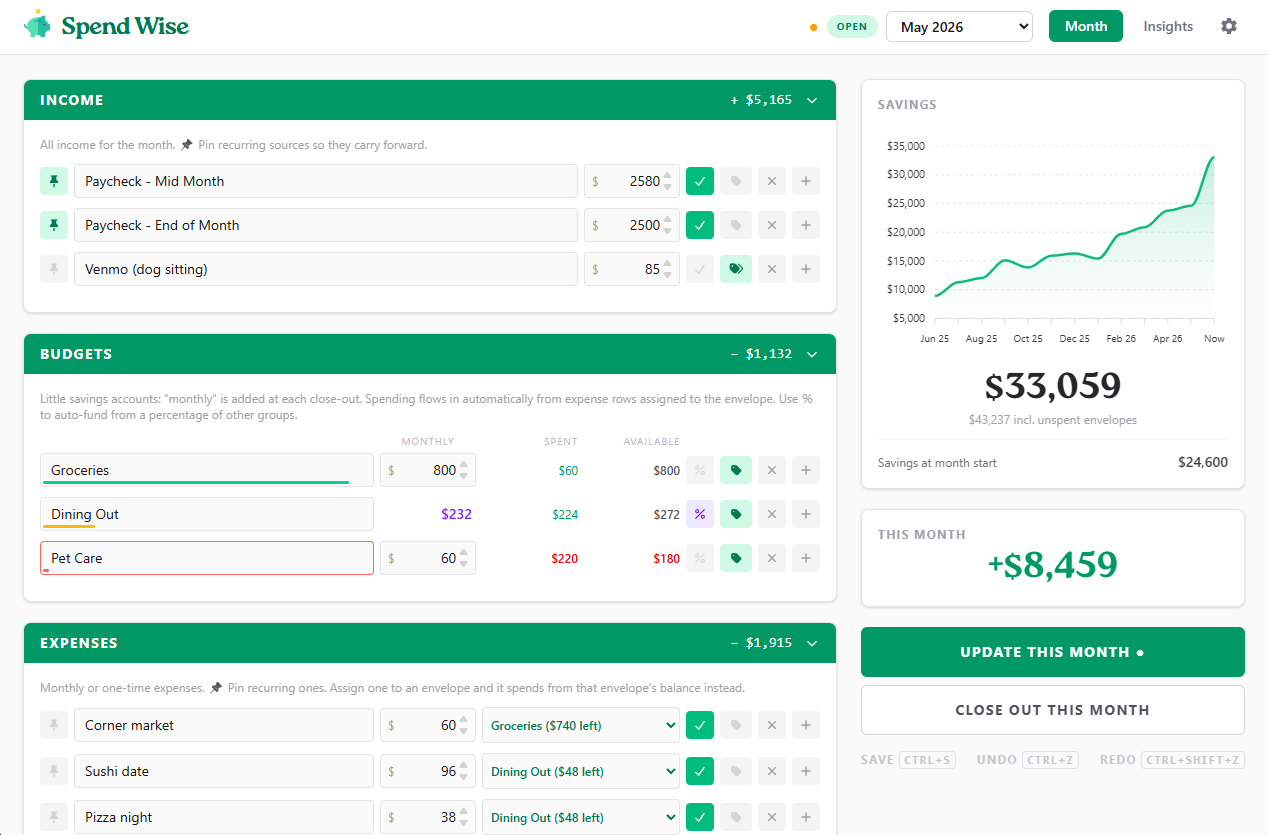
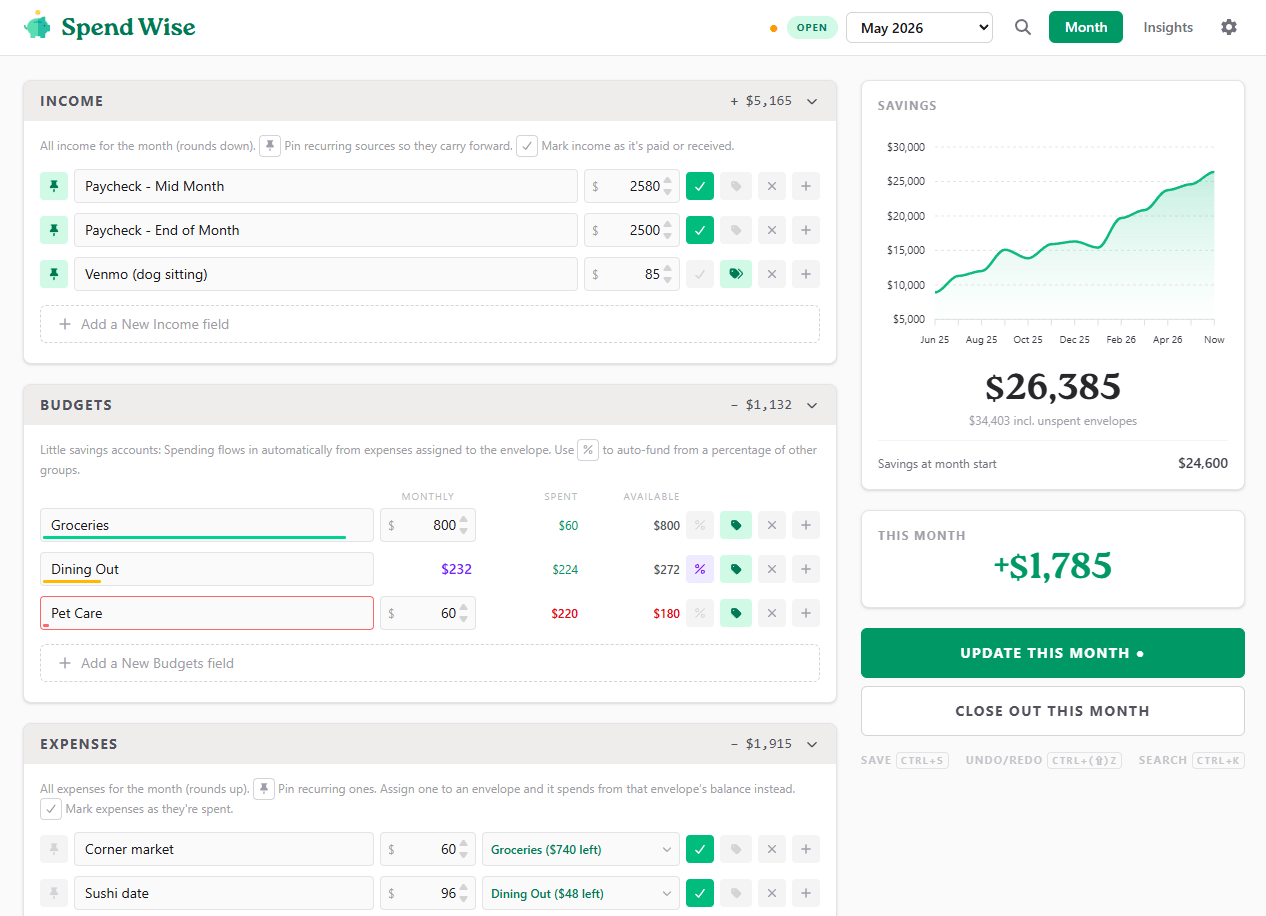
readme updates

diff --git a/README.md b/README.md
@@ -12,6 +12,7 @@
 
 <div align="center">
     <picture>
+        <source media="(prefers-color-scheme: dark)" srcset="https://raw.githubusercontent.com/blindmikey/spendwise/main/docs/screenshot.png">
         <source media="(prefers-color-scheme: light)" srcset="https://raw.githubusercontent.com/blindmikey/spendwise/main/docs/screenshot-light.png">
         <img alt="Spend Wise" src="https://raw.githubusercontent.com/blindmikey/spendwise/main/docs/screenshot-light.png">
     </picture>
@@ -48,6 +49,21 @@ copy forward, savings gets a snapshot, and next month is waiting for you.
 into spending and income trends, per-tag averages, and your savings trajectory
 over the years.
 
+**Find anything in one keystroke.** `Ctrl+K` searches every month at once -
+this month's matches first, then the full history - so "what do we usually pay
+for insurance?" answers itself, and picking a result jumps straight to that row.
+
+**Light or dark.** A full dark theme, everywhere - charts, dialogs, even the
+sign-in screens - following your system or your explicit choice in Settings.
+
+**Starts gently.** A fresh install asks a few questions - what's in savings
+right now, how money comes in, whether to set aside self-employment taxes - and
+builds a sensible starting layout with starter rows to rename.
+
+**Keeps working offline.** Editing in a browser when the server drops? Keep
+typing - saving pauses and resumes when the connection returns, merging as
+usual.
+
 **Budget together.** Two people editing the same month merge field by field
 rather than one clobbering the other - you both keep your edits.
 
@@ -62,6 +78,11 @@ correctly, after taking a backup and showing you exactly what changed.
 Grab the latest Windows installer or portable `.exe` from
 [Releases](https://github.com/blindmikey/spendwise/releases). That's the whole
 setup - it keeps its database in `%APPDATA%/Spend Wise/db.json`.
+
+Hosting the web version somewhere? The desktop app can use that server as its
+database instead of a local file: **Settings → Data → Database location →
+Remote server**, sign in with the server's app password, and it edits the same
+live books as every browser - merges included.
 
 On macOS or Linux, run it from source (see
 [docs/development.md](docs/development.md)) or host the web version below.

diff --git a/docs/hosting.md b/docs/hosting.md
@@ -31,6 +31,13 @@ you've backed up everything.
 
 ### Running it as a service
 
+The unit below runs as a dedicated system user - create it, along with the
+data directory it owns, first:
+
+```bash
+sudo useradd --system --home /srv/spendwise --create-home spendwise
+```
+
 A minimal systemd unit:
 
 ```ini
@@ -92,6 +99,10 @@ keeping.
 | `FINANCES_SECURE_COOKIE` | off | force `Secure` cookies (auto-detected from `X-Forwarded-Proto` when a proxy is trusted) |
 
 (The `FINANCES_*` prefix predates the rename to Spend Wise and still works.)
+
+For local testing there's also `spendwise-server --password <pw>` - a
+session-only login that is held in memory and never written to the database,
+so it can't clobber (or leak into) the real one.
 
 ## Putting it on the internet safely
 
@@ -246,5 +257,8 @@ Server mode has no native dialogs, so these live in the desktop app:
 - setting or changing the app password (also available via
   `spendwise-server --set-password`)
 
-Point the desktop app at the same file when you need them - one writer at a
-time.
+For everyday editing the desktop app doesn't need the file at all: **Settings →
+Data → Database location → Remote server** signs it into this server like any
+browser, and its edits merge with everyone else's. The dialog-based features
+above still need a desktop app running against the local file on the host -
+one writer at a time while you do.

diff --git a/docs/development.md b/docs/development.md
@@ -116,6 +116,10 @@ Node 20+ already have it, so the shim is a no-op there.
 - **`src/main/webserver.js`** - login, sessions, rate limiting, static serving.
   Runs inside the desktop app (Web access) or standalone via
   `src/server/cli.mjs`.
+- **`src/main/remote-core.js`** - the desktop app's remote-database client:
+  the same surface as `api-core`, but every method is an HTTP call to a hosted
+  server. Electron-free; `tests/remote-core.test.js` exercises it against a
+  real `createWebServer` instance.
 - **`src/main/update-check.js`** - the app's only outbound request: an
   unauthenticated GET of the GitHub releases API, compared against
   `package.json`'s version. Runs in the main/server process (one check per
@@ -142,5 +146,6 @@ Development:
 | `FINANCES_DB_PATH` | override the database location |
 | `FINANCES_E2E` | run an in-app end-to-end driver script |
 | `FINANCES_E2E_SCREENSHOT` | capture screenshots during an e2e run |
+| `FINANCES_USER_DATA` | point userData (config.json, default db) at a scratch folder so e2e runs never touch the real profile |
 
 Server variables are documented in [hosting.md](hosting.md#configuration).